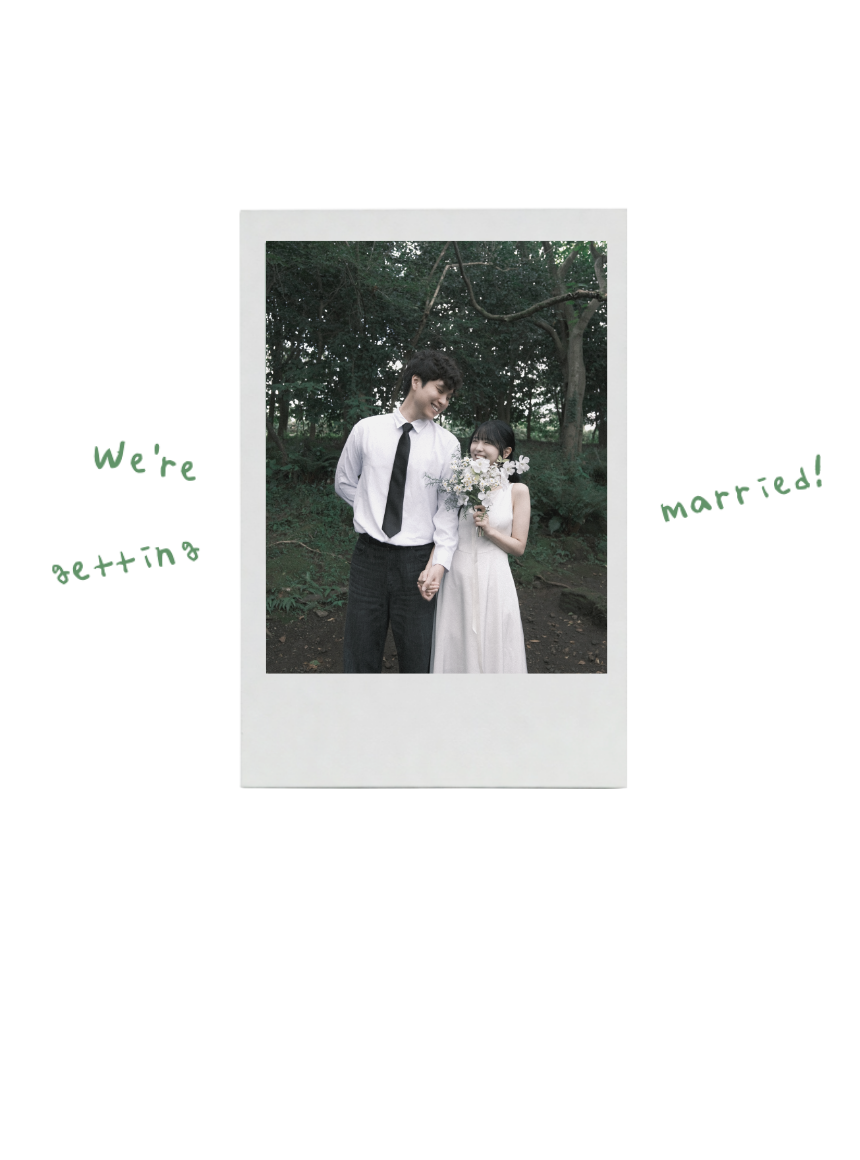
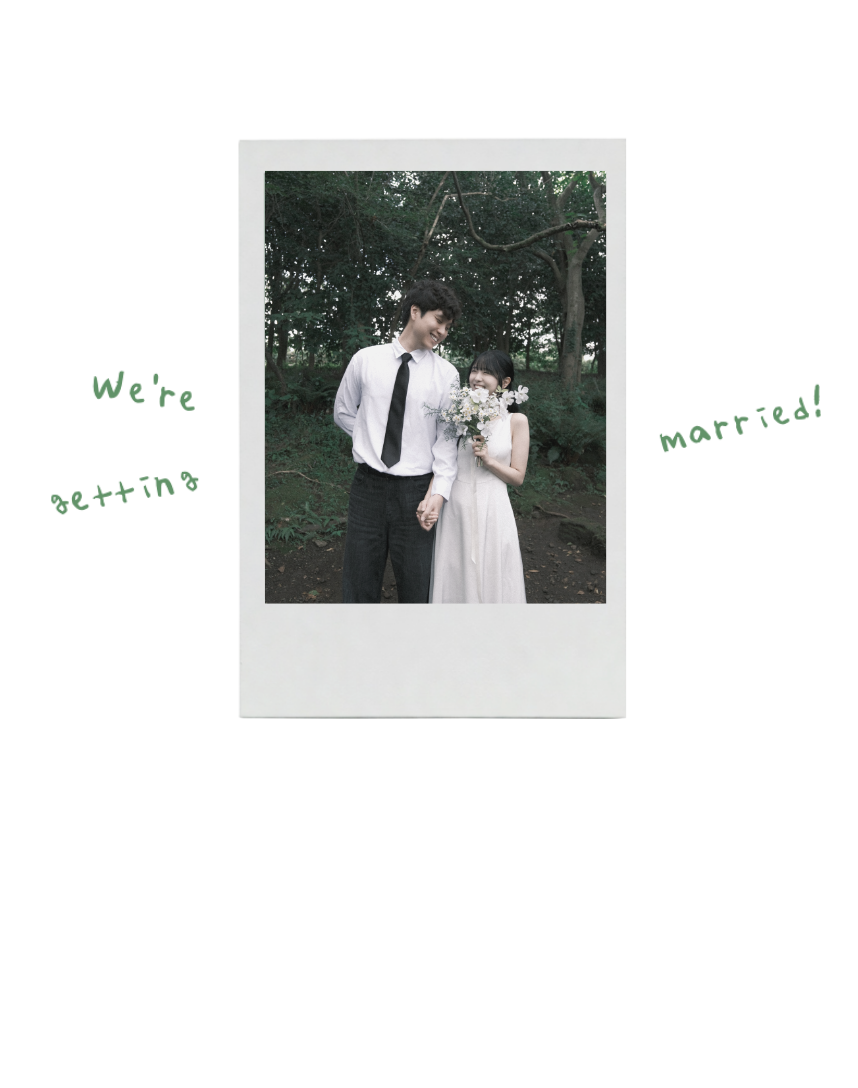
Add real account info, clover-only burst, sharper corners
- Fill in real bank account numbers for both families (groom/bride
  plus each side's parents), copy button now copies just the digits
  (bank name and hyphens stripped)
- Burst effect is 🍀-only (no cake emoji) and produces 3x more clovers
- Crop hero photo to remove 1/3 of the blank space above the polaroid
- Square off the transit cards, account accordion, and address-copy
  button corners; recolor the copy button to #333333

diff --git a/src/App.jsx b/src/App.jsx
@@ -265,6 +265,10 @@ function Accordion({ title, children, defaultOpen = true }) {
   )
 }
 
+function accountNumberOf(bank) {
+  return bank.trim().split(/\s+/).pop().replace(/-/g, '')
+}
+
 function AccountRows({ entries }) {
   return (
     <>
@@ -274,7 +278,7 @@ function AccountRows({ entries }) {
             <p className="account-bank">{entry.bank}</p>
             <p className="account-holder">{entry.holder}</p>
           </div>
-          <CopyButton className="pill-button" text={`${entry.bank} ${entry.holder}`}>
+          <CopyButton className="pill-button" text={accountNumberOf(entry.bank)}>
             복사하기
           </CopyButton>
         </div>
@@ -283,10 +287,10 @@ function AccountRows({ entries }) {
   )
 }
 
-const BURST_EMOJI = ['🍀', '🎂']
+const BURST_EMOJI = ['🍀']
 
 function makeCloverBurst() {
-  const count = 10 + Math.floor(Math.random() * 7)
+  const count = (10 + Math.floor(Math.random() * 7)) * 3
   return Array.from({ length: count }, () => {
     const angle = Math.random() * 2 * Math.PI
     const distance = 50 + Math.random() * 130

diff --git a/src/config.js b/src/config.js
@@ -53,8 +53,16 @@ export const WEDDING = {
     '저희의 가장 설레는 하루를 함께해 주세요.',
   ],
   account: {
-    groom: [{ holder: '이창현', bank: '○○은행 000-0000-0000' }],
-    bride: [{ holder: '하지수', bank: '○○은행 000-0000-0000' }],
+    groom: [
+      { holder: '이창현', bank: '하나은행 142-910-6971-6207' },
+      { holder: '이봉규', bank: '보류' },
+      { holder: '김인숙', bank: '보류' },
+    ],
+    bride: [
+      { holder: '하지수', bank: '농협은행 302-1871-3425-41' },
+      { holder: '하행진', bank: '국민은행 6695010-04-008174' },
+      { holder: '김정남', bank: '농협 825072-56-017596' },
+    ],
   },
   // 히어로 사진은 실제 커플 사진(src/assets/photos/hero.png)을 사용합니다.
   // 그 외는 임시 플레이스홀더 사진입니다 (디자인 참고 사이트의 샘플 사진).

diff --git a/src/index.css b/src/index.css
@@ -429,11 +429,11 @@ body {
   display: block;
   width: 100%;
   margin-top: 14px;
-  background: var(--ink-btn);
+  background: #333333;
   color: #fff;
   border: none;
   padding: 15px 0;
-  border-radius: 14px;
+  border-radius: 0;
   font-size: 0.9rem;
   font-weight: 600;
   cursor: pointer;
@@ -486,7 +486,7 @@ body {
 
 .transit {
   background: var(--surface-alt);
-  border-radius: 16px;
+  border-radius: 0;
   padding: 18px 20px;
 }
 
@@ -564,7 +564,7 @@ body {
 
 .accordion {
   background: var(--surface-alt);
-  border-radius: 18px;
+  border-radius: 0;
   overflow: hidden;
 }
 
